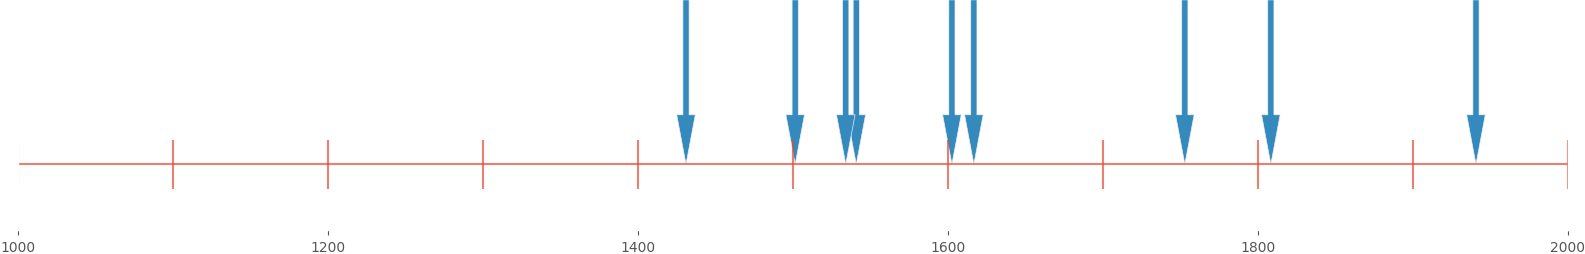
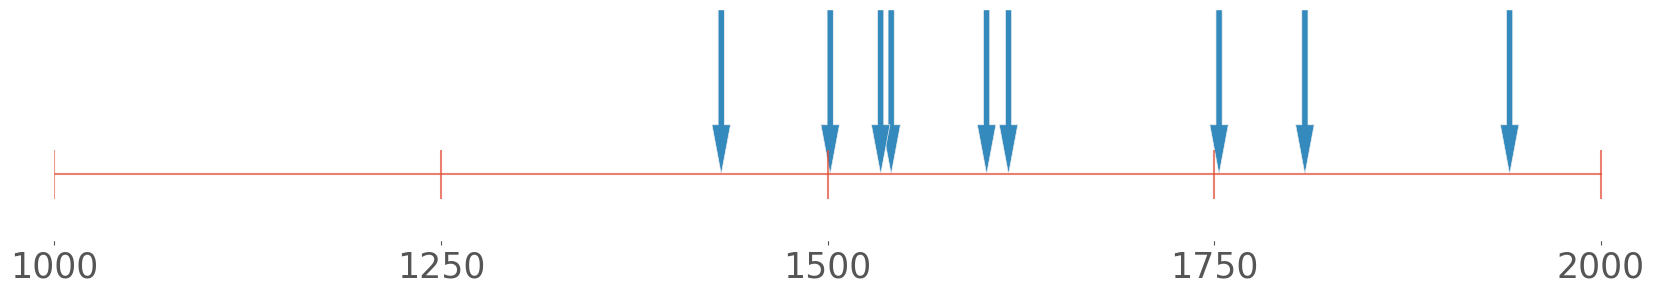
Bigger labels for xtick, lower grid density

diff --git a/create_stimuli_experiment.py b/create_stimuli_experiment.py
@@ -1,12 +1,11 @@
 import numpy as np
 import plotly.express as px
+import matplotlib
 import matplotlib.pyplot as plt
 import os
 
 plt.rcParams["figure.figsize"] = (18, 9)
 plt.style.use("ggplot")
-
-from matplotlib import patheffects
 
 
 def create_normal_distrib(mean, std, size, seed):
@@ -40,6 +39,8 @@ def create_draw_experiment(sample_to_draw, seed, size_sample=6, mean_factor=5, y
 def create_one_plot(sample_x, sample_y, x_line, y_line, xmin, xmax, ymin, ymax):
     figure, axis = plt.subplots(1, 1, figsize=(20, 3))
     axis.set_xlim(xmin=xmin, xmax=xmax)
+    plt.setp(axis, xticks=[1000, 1250, 1500, 1750, 2000])
+    plt.rc('font', size=25)
     axis.set_ylim(ymin=ymin, ymax=ymax)
     axis.get_yaxis().set_visible(False)
     axis.grid(False)
@@ -132,7 +133,8 @@ def create_stimuli_experiment(
     list_mean = list(np.linspace(start_mean, end_mean, n_conditions))
 
     # Plotting
-    x_line = list(range(xmin, xmax + 200, 100))
+    # x_line = list(range(xmin, xmax + 250, 250))
+    x_line = [750,1000,1250,1500,1750,2000]
     y_line = [1000] * len(x_line)
 
     dict_conditions = {
@@ -227,23 +229,22 @@ def create_stimuli_experiment(
                 figure.savefig(
                     fname=f"{data_dir}\\{condition}_iteration{iteration+1}_sample{sample+1}_seed{seed}_npoints_{list_npoints}.png",
                     bbox_inches="tight",
-                    pad_inches=0,
                     transparent=True,
                 )
+    return final_result
 
 
 res = create_stimuli_experiment(
     start_mean=1300,
     end_mean=1700,
     list_std=[20, 150],
-    list_npoints=[2, 7],
+    list_npoints=[3, 10],
     n_iteration_per_condition=2,
-    n_samples=5,
+    n_samples=10,
     mean_factor=1,
     seed=0,
-    xmin=1000,
-    xmax=2000,
+    xmin=999,
+    xmax=2001,
     ymin=800,
     ymax=1500,
 )
-
